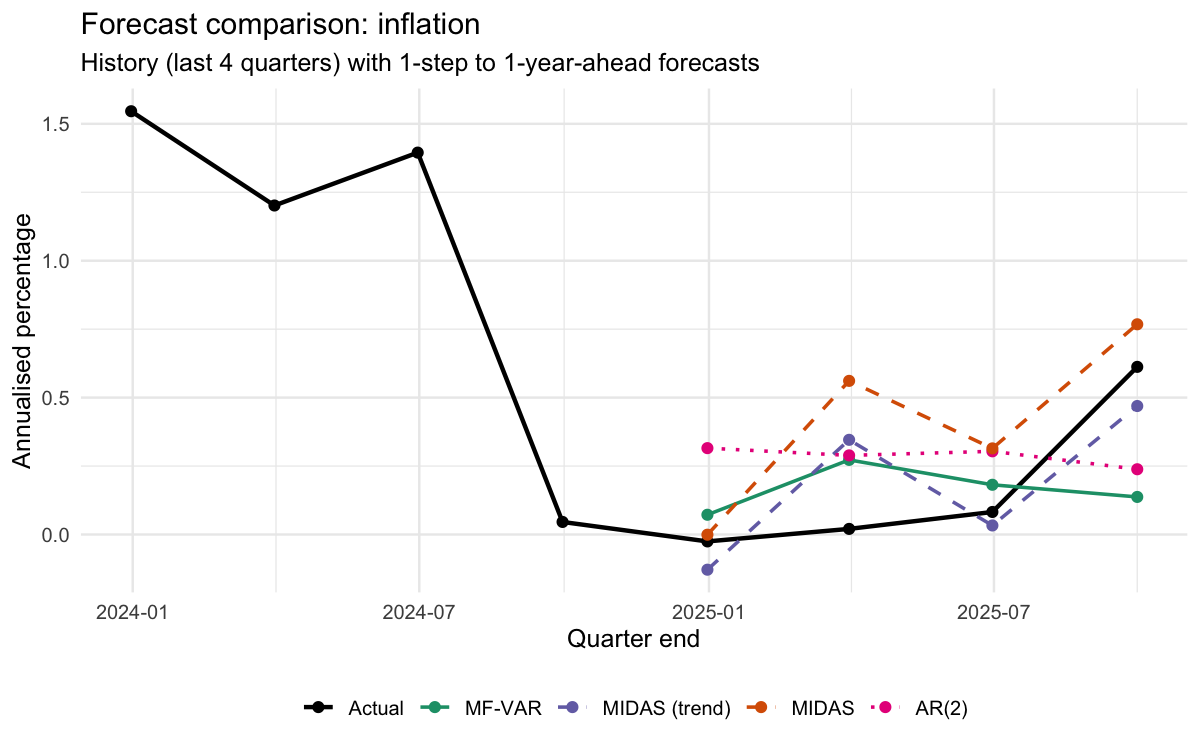
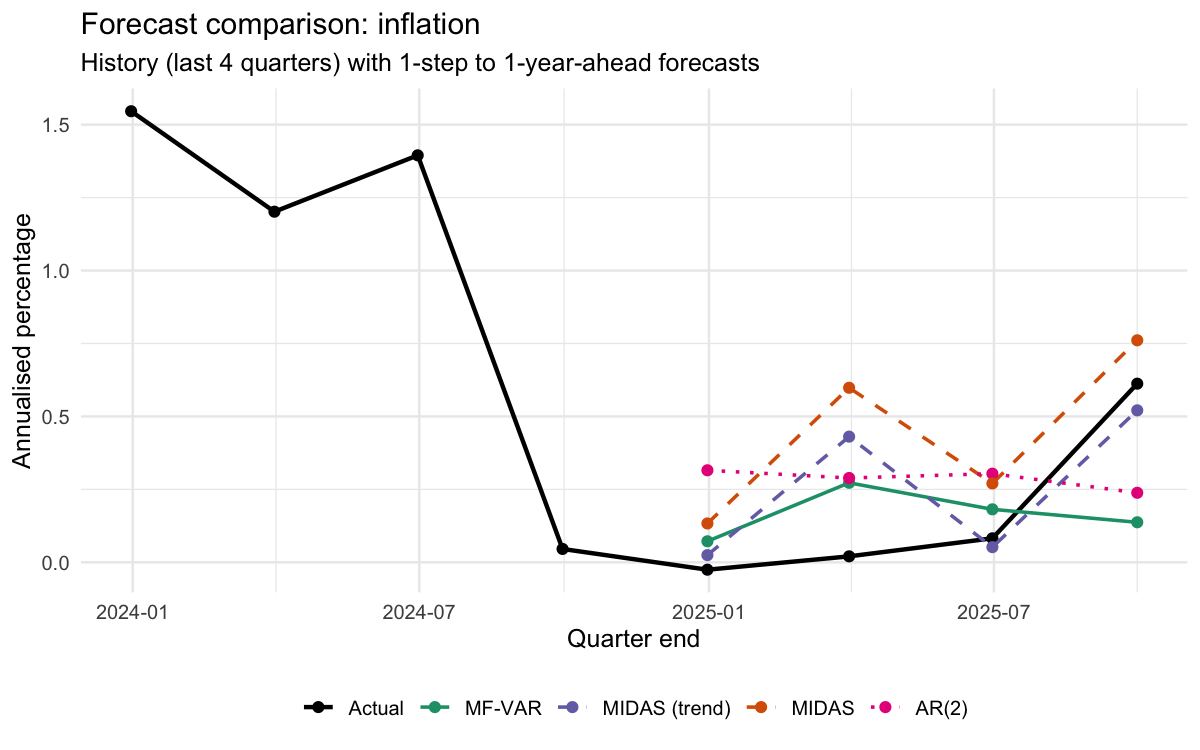
midas now set to use two lags

diff --git a/submission/output/benchmarks/model_benchmark_summary.md b/submission/output/benchmarks/model_benchmark_summary.md
@@ -7,10 +7,10 @@
 | AR(2) | 1-year ahead | 3 | 1.6470 | 1.0700 |
 | MF-VAR | 1-step ahead | 3 | 0.3775 | 0.2526 |
 | MF-VAR | 1-year ahead | 3 | 1.7000 | 1.1287 |
-| MIDAS | 1-step ahead | 3 | 1.0114 | 0.5926 |
-| MIDAS | 1-year ahead | 3 | 2.8735 | 1.7123 |
-| MIDAS (trend) | 1-step ahead | 3 | 1.2146 | 0.7355 |
-| MIDAS (trend) | 1-year ahead | 3 | 2.6937 | 1.6040 |
+| MIDAS | 1-step ahead | 3 | 1.0063 | 0.6317 |
+| MIDAS | 1-year ahead | 3 | 2.9262 | 1.7420 |
+| MIDAS (trend) | 1-step ahead | 3 | 1.2235 | 0.7230 |
+| MIDAS (trend) | 1-year ahead | 3 | 2.7192 | 1.6031 |
 
 
 ## Holdout Overall Average Errors
@@ -18,8 +18,8 @@
 | --- | --- | --- | --- |
 | AR(2) | 12 | 0.9712 | 0.5480 |
 | MF-VAR | 12 | 1.0264 | 0.5654 |
-| MIDAS | 12 | 1.6789 | 0.8619 |
-| MIDAS (trend) | 12 | 1.6022 | 0.8409 |
+| MIDAS | 12 | 1.7026 | 0.8841 |
+| MIDAS (trend) | 12 | 1.6162 | 0.8493 |
 
 
 ## Rolling Cross-Validation RMSE and MAE by Monthly Coverage
